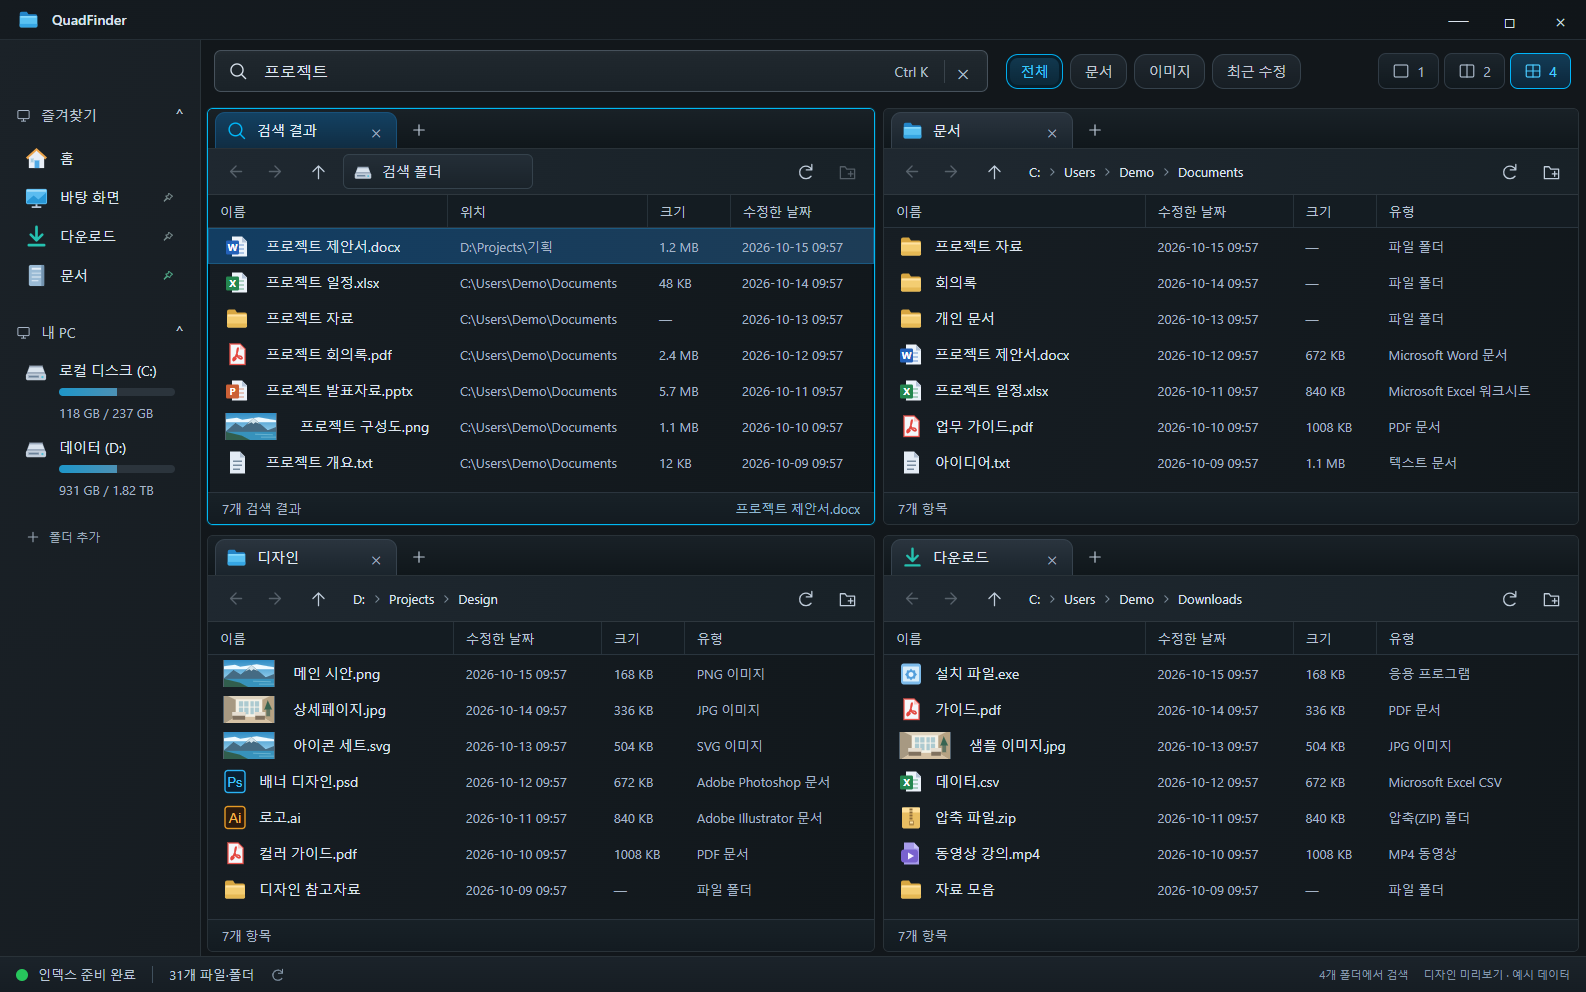
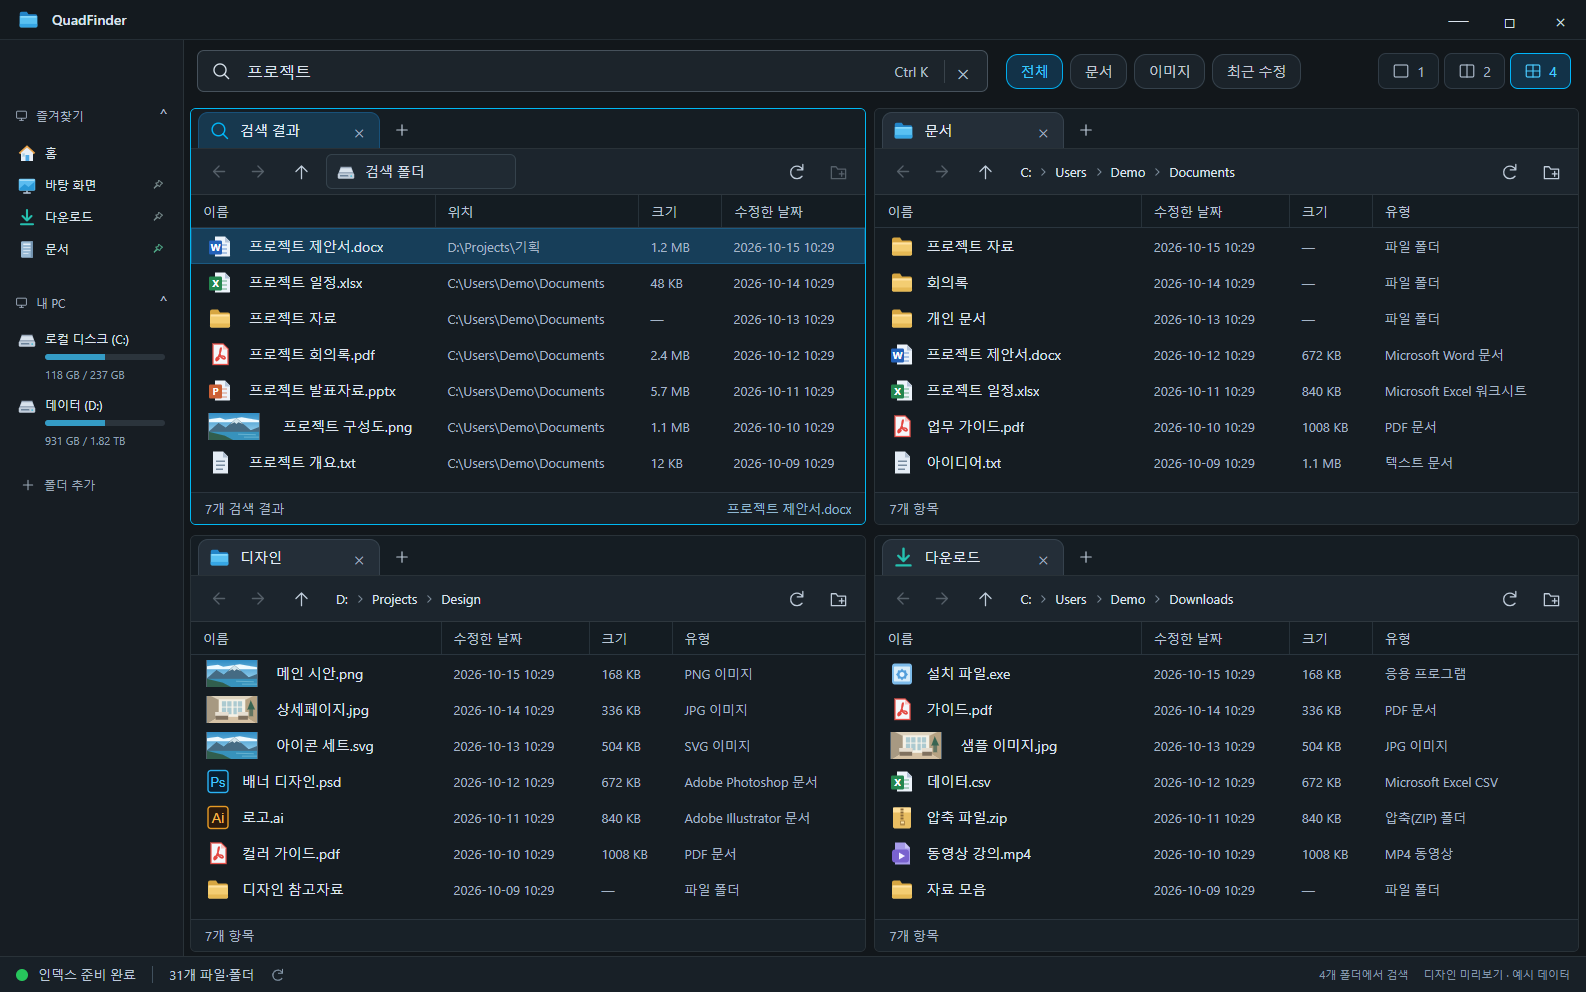
feat: flatten UI and add resizable compact navigation

diff --git a/src/renderer/styles.css b/src/renderer/styles.css
@@ -15,7 +15,7 @@ button:focus-visible, input:focus-visible { outline: 1px solid var(--accent); ou
 svg { width: 20px; height: 20px; display: block; flex-shrink: 0; }
 input { color: var(--text); background: none; border: 0; min-width: 0; }
 kbd { font-family: inherit; color: #b5c0cc; font-size: 14px; white-space: nowrap; }
-.titlebar { height: 40px; flex-shrink: 0; border-bottom: 1px solid #252e35; display: flex; align-items: center; justify-content: space-between; -webkit-app-region: drag; background: linear-gradient(100deg, #151b20, #101519); padding-left: 18px; }
+.titlebar { height: 40px; flex-shrink: 0; border-bottom: 1px solid #252e35; display: flex; align-items: center; justify-content: space-between; -webkit-app-region: drag; background: #141a1f; padding-left: 18px; }
 .brand { display: flex; align-items: center; gap: 13px; }
 .brand svg { width: 21px; height: 21px; }
 .brand strong { font-size: 14px; font-weight: 500; }
@@ -23,63 +23,63 @@ kbd { font-family: inherit; color: #b5c0cc; font-size: 14px; white-space: nowrap
 .window-controls button { height: 100%; width: 51px; border-radius: 0; font-size: 20px; font-weight: 300; }
 .window-controls button:last-child:hover { background: #b72c39; }
 .app-shell { display: flex; flex: 1; min-height: 0; }
-.sidebar { width: 201px; flex-shrink: 0; background: linear-gradient(115deg, #1b2228, #161c21); border-right: 1px solid var(--line); padding: 57px 15px 15px; display: flex; flex-direction: column; }
-.sidebar-heading { display: flex; align-items: center; gap: 10px; color: #bcc6d2; margin: 7px 1px 12px; font-size: 14px; }
-.sidebar-heading svg { width: 15px; height: 15px; color: #a7b5c7; }
+.sidebar { position: relative; width: 184px; flex-shrink: 0; background: #171d23; border-right: 1px solid var(--line); padding: 57px 10px 15px; display: flex; flex-direction: column; }
+.sidebar-heading { display: flex; align-items: center; gap: 8px; color: #a9b7c6; margin: 7px 5px 10px; font-size: 12px; }
+.sidebar-heading svg { width: 13px; height: 13px; color: #a7b5c7; }
 .collapse-mark { margin-left: auto; font-size: 16px; }
-nav button { width: 100%; justify-content: flex-start; text-align: left; height: 39px; padding: 6px 10px; margin: 0; gap: 12px; overflow: hidden; white-space: nowrap; }
-nav button > svg { width: 23px; height: 25px; }
+nav button { width: 100%; justify-content: flex-start; text-align: left; height: 32px; padding: 5px 8px; margin: 0; gap: 9px; font-size: 12px; overflow: hidden; white-space: nowrap; }
+nav button > svg { width: 18px; height: 19px; }
 nav button.active { background: #1d3b50; color: #e1f4ff; }
 .place-pin { margin-left: auto; color: #819596; }
 .place-pin svg { width: 12px; height: 12px; transform: rotate(15deg); }
 nav button:nth-child(4) .place-pin { color: #55b691; }
 .drives-heading { margin-top: 26px; margin-bottom: 7px; }
-.drive-button { height: auto; min-height: 77px; align-items: flex-start; padding-top: 10px; }
-.drive-button > svg { width: 22px; height: 22px; }
-.drive-info { flex: 1; min-width: 0; display: flex; flex-direction: column; gap: 8px; font-size: 14px; }
+.drive-button { height: auto; min-height: 66px; align-items: flex-start; padding-top: 10px; }
+.drive-button > svg { width: 18px; height: 18px; }
+.drive-info { flex: 1; min-width: 0; display: flex; flex-direction: column; gap: 7px; font-size: 12px; }
 .drive-info > span:first-child { overflow: hidden; text-overflow: ellipsis; }
-.drive-meter { display: flex; width: 100%; height: 8px; border-radius: 5px; overflow: hidden; background: #2b343c; }
-.drive-meter i { display: block; background: linear-gradient(90deg, #1e96c9, #4c91b5); }
-.drive-info small { color: #a4b3c5; font-size: 13px; }
+.drive-meter { display: flex; width: 100%; height: 6px; border-radius: 3px; overflow: hidden; background: #2b343c; }
+.drive-meter i { display: block; background: #349bc5; }
+.drive-info small { color: #91a2b5; font-size: 11px; }
 .add-location { justify-content: flex-start; color: #9ba9b8; font-size: 12px; padding: 9px 10px; margin-top: 15px; }
 .add-location svg { width: 16px; height: 16px; }
-.workspace { min-width: 0; flex: 1; display: flex; flex-direction: column; padding: 10px 7px 4px 6px; }
+.workspace { container-type: inline-size; container-name: workspace; min-width: 0; flex: 1; display: flex; flex-direction: column; padding: 10px 7px 4px 6px; }
 .search-toolbar { display: flex; gap: 18px; align-items: center; height: 42px; flex-shrink: 0; margin: 0 8px 16px 7px; }
-.search-box { display: flex; align-items: center; gap: 14px; border: 1px solid #46515b; border-radius: 7px; background: linear-gradient(#20282e, #1a2228); height: 42px; padding: 0 13px; flex: 1; min-width: 140px; box-shadow: inset 0 1px 3px #ffffff06; }
+.search-box { display: flex; align-items: center; gap: 14px; border: 1px solid #46515b; border-radius: 7px; background: #1c242b; height: 42px; padding: 0 13px; flex: 1; min-width: 140px; box-shadow: none; }
 .search-box:focus-within { border-color: #58829a; }
 .search-box > span { color: #dae4ee; }
 .search-box input { flex: 1; height: 100%; outline: none; font-size: 16px; }
 .search-box input::placeholder { color: #8e9cab; font-size: 14px; }
 .search-box button { font-size: 25px; font-weight: 300; color: #b3c2d2; width: 30px; height: 23px; border-left: 1px solid #39434b; border-radius: 0; margin-left: 2px; padding-left: 13px; }
 #filters { display: flex; gap: 7px; flex-shrink: 0; }
-#filters button { height: 35px; padding: 0 13.5px; color: #c1c9d2; font-size: 14px; border: 1px solid #35414b; border-radius: 12px; background: linear-gradient(#20282f, #171e24); }
-#filters button.active { color: #39c8ff; background: linear-gradient(#123a51, #0b2636); border-color: #00acec; box-shadow: inset 0 0 0 3px #071e2b; }
+#filters button { height: 35px; padding: 0 13.5px; color: #c1c9d2; font-size: 14px; border: 1px solid #35414b; border-radius: 12px; background: #1b232a; }
+#filters button.active { color: #39c8ff; background: #123248; border-color: #00acec; box-shadow: none; }
 .layout-switch { display: flex; flex-shrink: 0; gap: 5px; margin-left: 59px; }
-.layout-switch button { height: 36px; min-width: 61px; gap: 7px; color: #a8b7c7; background: linear-gradient(#1c252c, #11191e); border: 1px solid #303b45; border-radius: 8px; }
-.layout-switch button.active { color: #49cbff; background: linear-gradient(#133c56, #0c263a); border-color: #00b5fa; }
+.layout-switch button { height: 36px; min-width: 61px; gap: 7px; color: #a8b7c7; background: #182128; border: 1px solid #303b45; border-radius: 8px; }
+.layout-switch button.active { color: #49cbff; background: #123248; border-color: #00b5fa; }
 .layout-switch svg { width: 18px; height: 18px; }
 .panes { flex: 1; min-height: 0; display: grid; gap: 10px 8px; grid-template-columns: minmax(0,.96fr) minmax(0,1fr); grid-template-rows: minmax(0,1fr) minmax(0,1fr); }
 .panes.layout-1 { grid-template-columns: minmax(0,1fr); grid-template-rows: minmax(0,1fr); }
 .panes.layout-2 { grid-template-columns: minmax(0,1fr) minmax(0,1fr); grid-template-rows: minmax(0,1fr); }
-.pane { display: flex; flex-direction: column; min-width: 0; min-height: 0; border: 1px solid var(--line); border-radius: 6px; overflow: hidden; background: linear-gradient(110deg, #171e24, #11171b); container-type: inline-size; }
-.pane.active { border-color: #00b8f2; box-shadow: 0 0 0 1px #00b8f226, inset 0 0 0 2px #021019; }
+.pane { display: flex; flex-direction: column; min-width: 0; min-height: 0; border: 1px solid var(--line); border-radius: 6px; overflow: hidden; background: #151c22; container-type: inline-size; }
+.pane.active { border-color: #00b8f2; box-shadow: none; }
 .pane[hidden] { display: none; }
-.tabs-bar { display: flex; align-items: center; gap: 4px; height: 40px; flex-shrink: 0; background: linear-gradient(#192127, #10171b); border-bottom: 1px solid var(--line); padding: 3px 7px 0; }
+.tabs-bar { display: flex; align-items: center; gap: 4px; height: 40px; flex-shrink: 0; background: #151d23; border-bottom: 1px solid var(--line); padding: 3px 7px 0; }
 .tabs { display: flex; min-width: 0; overflow: auto; scrollbar-width: none; height: 100%; gap: 3px; }
 .tab { display: flex; align-items: center; min-width: 182px; max-width: 245px; border: 1px solid transparent; border-bottom: 0; border-radius: 10px 10px 0 0; padding: 0 10px; color: #b2becd; gap: 18px; }
-.tab.current { background: linear-gradient(#2a343e, #1a242c); color: #e3ebf5; border-color: #36424d; }
-.pane.active .tab.current { background: linear-gradient(#134162, #102d43); border-color: #18517a; color: #e2edf7; }
+.tab.current { background: #242e38; color: #e3ebf5; border-color: #36424d; }
+.pane.active .tab.current { background: #17384e; border-color: #18517a; color: #e2edf7; }
 .tab > button:first-child { min-width: 0; flex: 1; overflow: hidden; white-space: nowrap; text-overflow: ellipsis; padding: 0; justify-content: flex-start; font-size: 14px; height: 100%; gap: 10px; }
 .tab > button:first-child svg { width: 21px; height: 21px; color: #00b8fa; }
 .tab .close-tab { font-size: 21px; font-weight: 300; color: #a8b6c6; width: 20px; flex-shrink: 0; }
 .new-tab { width: 36px; height: 30px; flex-shrink: 0; color: #bdc9d7; }
 .new-tab svg { width: 18px; height: 18px; }
-.navigation { height: 46px; display: flex; align-items: center; gap: 7px; padding: 5px 9px; background: linear-gradient(100deg, #1f2830, #182127); border-bottom: 1px solid #2e373e; flex-shrink: 0; }
+.navigation { height: 46px; display: flex; align-items: center; gap: 7px; padding: 5px 9px; background: #1c252d; border-bottom: 1px solid #2e373e; flex-shrink: 0; }
 .navigation > button { width: 35px; height: 31px; flex-shrink: 0; color: #c0cddb; }
 .navigation > button svg { width: 19px; height: 19px; }
 .address { display: flex; flex: 1; align-items: center; min-width: 30px; height: 35px; border: 1px solid transparent; border-radius: 6px; padding: 0 5px; }
 .address:hover { border-color: #39454f; background: #ffffff03; }
-.address.search-address { flex: 0 1 190px; border-color: #35424c; background: linear-gradient(#242e37, #1a232a); }
+.address.search-address { flex: 0 1 190px; border-color: #35424c; background: #202a33; }
 .address.search-address > svg { width: 18px; height: 18px; color: #b8c7d7; margin: 0 10px 0 5px; }
 .search-scope { color: #d1dbe6; font-size: 14px; white-space: nowrap; overflow: hidden; text-overflow: ellipsis; }
 .breadcrumbs { display: flex; align-items: center; gap: 2px; overflow: hidden; min-width: 0; }
@@ -98,7 +98,7 @@ nav button:nth-child(4) .place-pin { color: #55b691; }
 .columns button:last-child, .columns > span:last-child { border-right: 0; }
 .file-row { height: 36px; font-size: 14px; border: 1px solid transparent; cursor: default; outline: none; }
 .file-row:hover { background: #ffffff05; }
-.file-row.selected { background: linear-gradient(90deg, #123d62, #1d3c56); border-color: #1b5981; }
+.file-row.selected { background: #173e59; border-color: #1b5981; }
 .file-row:focus-visible { outline: 1px solid var(--accent); outline-offset: -1px; }
 .file-name { display: flex; align-items: center; gap: 12px; padding-left: 14px; padding-right: 7px; overflow: hidden; min-width: 0; }
 .file-name > span:last-child { overflow: hidden; text-overflow: ellipsis; white-space: nowrap; }
@@ -110,13 +110,13 @@ nav button:nth-child(4) .place-pin { color: #55b691; }
 .file-icon.thumbnail { width: 52px; margin-right: 6px; }
 .file-icon img { width: 100%; height: 31px; object-fit: cover; border-radius: 2px; border: 1px solid #51606c; }
 .file-date, .file-size, .file-extra { padding: 0 12px; color: #a5b5c8; font-size: 13px; white-space: nowrap; overflow: hidden; text-overflow: ellipsis; }
-.pane-footer { height: 32px; flex-shrink: 0; display: flex; align-items: center; gap: 14px; padding: 0 14px; color: #a8b7c9; font-size: 13px; border-top: 1px solid #2b353e; background: linear-gradient(#182127, #131b21); }
+.pane-footer { height: 32px; flex-shrink: 0; display: flex; align-items: center; gap: 14px; padding: 0 14px; color: #a8b7c9; font-size: 13px; border-top: 1px solid #2b353e; background: #182128; }
 .pane-footer .selection-info { margin-left: auto; color: #8eb7d1; overflow: hidden; white-space: nowrap; text-overflow: ellipsis; }
 .empty-state { height: 100%; min-height: 130px; display: flex; align-items: center; justify-content: center; flex-direction: column; gap: 10px; color: #8fa1b4; text-align: center; padding: 18px; }
 .empty-state svg { width: 34px; height: 34px; color: #58819c; }
 .empty-state strong { font-weight: 500; color: #adbed1; font-size: 14px; }
 .empty-state small { font-size: 12px; max-width: 340px; line-height: 1.7; overflow-wrap: anywhere; }
-.statusbar { height: 36px; background: linear-gradient(#1b232a, #161d23); border-top: 1px solid var(--line); display: flex; align-items: center; padding: 0 16px; gap: 10px; font-size: 13px; color: #bcc9d9; flex-shrink: 0; }
+.statusbar { height: 36px; background: #182027; border-top: 1px solid var(--line); display: flex; align-items: center; padding: 0 16px; gap: 10px; font-size: 13px; color: #bcc9d9; flex-shrink: 0; }
 .status-dot { width: 12px; height: 12px; background: #27c55c; border-radius: 50%; }
 .status-dot.busy { background: #e0b269; animation: pulse 1.5s infinite; }
 .status-divider { height: 17px; width: 1px; background: #40505d; margin: 0 6px; }
@@ -124,9 +124,9 @@ nav button:nth-child(4) .place-pin { color: #55b691; }
 #reindex svg { width: 15px; height: 15px; }
 #status-message { color: #a2bfce; overflow: hidden; white-space: nowrap; text-overflow: ellipsis; }
 .status-right { margin-left: auto; display: flex; gap: 15px; color: #8599ad; font-size: 11px; white-space: nowrap; }
-#toast { position: fixed; bottom: 65px; left: 50%; transform: translateX(-50%); background: #263d50; border: 1px solid #47718c; padding: 12px 20px; border-radius: 8px; box-shadow: 0 8px 30px #0006; display: none; max-width: 80vw; z-index: 10; font-size: 13px; overflow-wrap: anywhere; }
+#toast { position: fixed; bottom: 65px; left: 50%; transform: translateX(-50%); background: #263d50; border: 1px solid #47718c; padding: 12px 20px; border-radius: 8px; box-shadow: none; display: none; max-width: 80vw; z-index: 10; font-size: 13px; overflow-wrap: anywhere; }
 #toast.visible { display: block; }
-dialog { background: #1e2732; border: 1px solid #3d5269; border-radius: 12px; color: var(--text); width: 400px; padding: 24px; box-shadow: 0 20px 80px #0008; }
+dialog { background: #1e2732; border: 1px solid #3d5269; border-radius: 12px; color: var(--text); width: 400px; padding: 24px; box-shadow: none; }
 dialog::backdrop { background: #070b11aa; }
 dialog h2 { font-size: 17px; margin: 0 0 12px; }
 dialog p { font-size: 13px; color: #8fa5bd; overflow-wrap: anywhere; line-height: 1.5; }
@@ -142,8 +142,7 @@ dialog input { display: block; width: 100%; padding: 10px; border: 1px solid #45
   .navigation { gap: 2px; padding-left: 5px; padding-right: 5px; }
   .navigation > button { width: 28px; }
 }
-@media (max-width: 1200px) {
-  .sidebar { width: 185px; padding-left: 10px; padding-right: 10px; }
+@container workspace (max-width: 1000px) {
   .search-toolbar { gap: 10px; margin-left: 0; margin-right: 0; }
   #filters button { padding: 0 10px; font-size: 13px; }
   .layout-switch button { min-width: 44px; }
@@ -153,3 +152,11 @@ dialog input { display: block; width: 100%; padding: 10px; border: 1px solid #45
 }
 @keyframes pulse { 50% { opacity: .4; } }
 @media (prefers-reduced-motion: reduce) { * { animation: none !important; } }
+
+/* An invisible hit area makes the divider easy to grab without a bulky rail. */
+#sidebar-resizer { position: absolute; top: 0; bottom: 0; right: -4px; width: 8px; z-index: 5; cursor: col-resize; touch-action: none; }
+#sidebar-resizer::after { content: ''; position: absolute; left: 3px; top: 0; bottom: 0; width: 2px; background: transparent; }
+#sidebar-resizer:hover::after, #sidebar-resizer:focus-visible::after, .resizing-sidebar #sidebar-resizer::after { background: #328bb5; }
+#sidebar-resizer:focus-visible { outline: none; }
+.resizing-sidebar, .resizing-sidebar * { cursor: col-resize !important; user-select: none !important; }
+#places button > span:not(.place-pin) { overflow: hidden; text-overflow: ellipsis; }

diff --git a/src/renderer/renderer.js b/src/renderer/renderer.js
@@ -1,7 +1,7 @@
 const api = window.quadfind;
 const $ = selector => document.querySelector(selector);
 const escapeHTML = value => String(value ?? '').replace(/[&<>"']/g, char => ({'&':'&amp;','<':'&lt;','>':'&gt;','"':'&quot;',"'":'&#39;'}[char]));
-const state = { panes: [], layout: 4, active: 0, query: '', filter: 'all', request: 0, boot: null };
+const state = { panes: [], layout: 4, sidebarWidth: 184, active: 0, query: '', filter: 'all', request: 0, boot: null };
 let toastTimer, searchTimer, saveTimer;
 function toast(message) { $('#toast').textContent = message; $('#toast').classList.add('visible'); clearTimeout(toastTimer); toastTimer = setTimeout(() => $('#toast').classList.remove('visible'), 5000); }
 async function call(promise) { const result = await promise; if (!result.ok) throw new Error(result.error); return result.value; }
@@ -50,7 +50,54 @@ function fileType(entry) {
 }
 function sizeLabel(entry) { if (entry.directory) return '—'; const bytes = entry.size; if (bytes < 1024) return `${bytes} B`; if (bytes < 1048576) return `${(bytes / 1024).toFixed(0)} KB`; if (bytes < 1073741824) return `${(bytes / 1048576).toFixed(1)} MB`; return `${(bytes / 1073741824).toFixed(1)} GB`; }
 function dateLabel(value) { const d = new Date(value); return `${d.getFullYear()}-${String(d.getMonth()+1).padStart(2,'0')}-${String(d.getDate()).padStart(2,'0')} ${String(d.getHours()).padStart(2,'0')}:${String(d.getMinutes()).padStart(2,'0')}`; }
-function save() { clearTimeout(saveTimer); saveTimer = setTimeout(() => call(api.saveLayout({ layout: state.layout, panes: state.panes.map(pane => ({ active: pane.active, tabs: pane.tabs.map(tab => ({path:tab.path})) })) })).catch(error => toast(`레이아웃 저장 실패: ${error.message}`)), 150); }
+function save() { clearTimeout(saveTimer); saveTimer = setTimeout(() => call(api.saveLayout({ layout: state.layout, sidebarWidth: state.sidebarWidth, panes: state.panes.map(pane => ({ active: pane.active, tabs: pane.tabs.map(tab => ({path:tab.path})) })) })).catch(error => toast(`레이아웃 저장 실패: ${error.message}`)), 150); }
+function setupSidebar(savedWidth) {
+  const sidebar=$('#sidebar'), handle=$('#sidebar-resizer');
+  let drag=null;
+  const maxWidth=()=>Math.max(150,Math.min(400,window.innerWidth-640));
+  function applyWidth(width, remember=true) {
+    const preferred=Number.isFinite(width)?Math.max(150,Math.min(400,Math.round(width))):184;
+    const actual=Math.min(preferred,maxWidth());
+    if(remember)state.sidebarWidth=preferred;
+    sidebar.style.width=`${actual}px`;
+    handle.setAttribute('aria-valuenow',actual);
+    handle.setAttribute('aria-valuemax',maxWidth());
+    handle.setAttribute('aria-valuetext',`${actual}픽셀`);
+  }
+  function finish(cancel=false) {
+    if(!drag)return;
+    const previous=drag;drag=null;
+    if(cancel)applyWidth(previous.preferred);
+    document.body.classList.remove('resizing-sidebar');
+    if(handle.hasPointerCapture(previous.id))handle.releasePointerCapture(previous.id);
+    if(!cancel)save();
+  }
+  applyWidth(savedWidth);
+  handle.addEventListener('pointerdown',event=>{
+    if(event.button!==0||drag)return;
+    event.preventDefault();handle.focus();
+    drag={id:event.pointerId,x:event.clientX,width:sidebar.getBoundingClientRect().width,preferred:state.sidebarWidth};
+    handle.setPointerCapture(event.pointerId);
+    document.body.classList.add('resizing-sidebar');
+  });
+  handle.addEventListener('pointermove',event=>{
+    if(drag&&event.pointerId===drag.id)applyWidth(Math.min(maxWidth(),drag.width+event.clientX-drag.x));
+  });
+  handle.addEventListener('pointerup',()=>finish());
+  handle.addEventListener('pointercancel',()=>finish(true));
+  handle.addEventListener('lostpointercapture',()=>finish());
+  window.addEventListener('blur',()=>finish());
+  window.addEventListener('resize',()=>applyWidth(state.sidebarWidth,false));
+  handle.addEventListener('dblclick',()=>{applyWidth(184);save();});
+  handle.addEventListener('keydown',event=>{
+    if(!['ArrowLeft','ArrowRight','Home','End','Escape'].includes(event.key))return;
+    event.preventDefault();
+    if(event.key==='Escape'){finish(true);return;}
+    const current=sidebar.getBoundingClientRect().width,step=event.shiftKey?20:10;
+    applyWidth(event.key==='Home'?150:event.key==='End'?maxWidth():current+(event.key==='ArrowRight'?step:-step));
+    save();
+  });
+}
 function setActive(index) { state.active = index; document.querySelectorAll('.pane').forEach((element, i) => element.classList.toggle('active', i === index)); }
 function applyLayout(value) { state.layout = value; if (state.active >= value) state.active = 0; $('#panes').className = `panes layout-${value}`; document.querySelectorAll('[data-layout]').forEach(button => { const active = Number(button.dataset.layout) === value; button.classList.toggle('active', active); button.setAttribute('aria-pressed', active); }); state.panes.forEach((pane, i) => { pane.element.hidden = i >= value; }); setActive(state.active); save(); }
 
@@ -139,6 +186,7 @@ async function init() {
   if (boot.preview) $('#preview-label').textContent='디자인 미리보기 · 예시 데이터';
   $('#scope-label').textContent=`${boot.roots.length}개 폴더에서 검색`;
   const saved=boot.layout;
+  setupSidebar(saved?.sidebarWidth);
   const defaults=[boot.places.find(item=>item.icon==='document')?.path,boot.places.find(item=>item.icon==='document')?.path,boot.places.find(item=>item.icon==='image')?.path,boot.places.find(item=>item.icon==='download')?.path];
   for(let i=0;i<4;i++) {
     const element=document.createElement('section'); element.className='pane'; element.setAttribute('aria-label',`탐색 패널 ${i+1}`); $('#panes').append(element);

diff --git a/src/renderer/index.html b/src/renderer/index.html
@@ -16,12 +16,13 @@
     <div class="window-controls"><button data-window="minimize" aria-label="최소화">─</button><button data-window="maximize" aria-label="최대화">□</button><button data-window="close" aria-label="닫기">×</button></div>
   </header>
   <main class="app-shell">
-    <aside class="sidebar">
+    <aside class="sidebar" id="sidebar">
       <div class="sidebar-heading"><span data-icon="desktop-small"></span>즐겨찾기 <span class="collapse-mark">⌃</span></div>
       <nav id="places" aria-label="즐겨찾기"></nav>
       <div class="sidebar-heading drives-heading"><span data-icon="desktop-small"></span>내 PC <span class="collapse-mark">⌃</span></div>
       <nav id="drives" aria-label="드라이브"></nav>
       <button id="choose-folder" class="add-location"><span data-icon="plus"></span>폴더 추가</button>
+      <div id="sidebar-resizer" role="separator" tabindex="0" aria-label="탐색 영역 너비 조절" aria-orientation="vertical" aria-controls="sidebar" aria-valuemin="150" aria-valuemax="400" aria-valuenow="184" title="드래그하여 너비 조절 · 더블클릭으로 초기화 · 방향키로 조절"></div>
     </aside>
     <section class="workspace">
       <div class="search-toolbar">

diff --git a/README.md b/README.md
@@ -4,9 +4,11 @@ Everything의 빠른 파일명 검색과 Q-Dir의 다중 패널 탐색 경험을
 
 ![확정한 디자인 시안](docs/design-concept.png)
 
-## 현재 구현 — v0.1.1
+## 현재 구현 — v0.1.2
 
 시안의 한 줄 검색 도구 모음, 컬러 파일 아이콘, 폴더 경로 표시, 패널 비율과 글자 크기를 반영했습니다. 드라이브 사용량은 실제 로컬 볼륨에서 읽고, 이미지 파일은 Windows에서 제공하는 썸네일을 표시합니다.
+
+버튼·탭·상태 표시줄은 그라데이션과 그림자 없이 단색으로 표시합니다. 왼쪽 탐색 영역은 12px 글자와 18px 아이콘으로 구성하며, 오른쪽 경계를 드래그해서 너비를 조절할 수 있습니다. 조절한 너비는 자동 저장됩니다. 경계를 더블클릭하면 기본 너비로 돌아오며, 경계에 포커스한 상태에서 방향키·Home·End로도 조절할 수 있습니다.
 
 아래는 현재 UI를 예시 데이터로 실행한 화면입니다. 일반 앱 실행은 실제 로컬 파일을 사용합니다.
 
